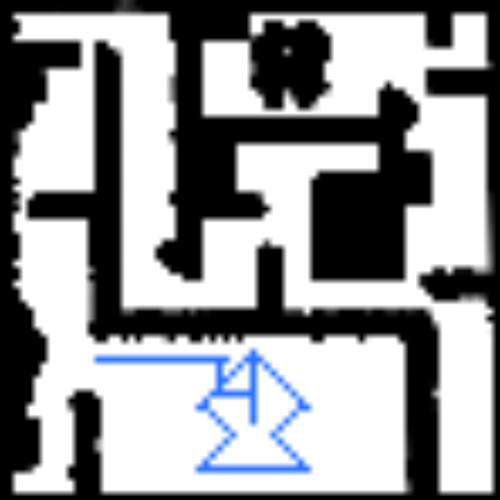
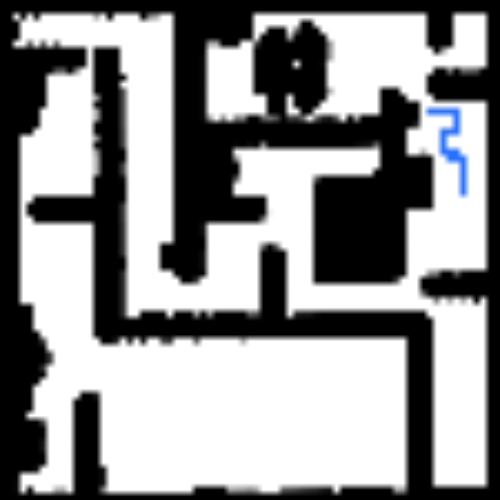
porfa que este bien

diff --git a/src/webui.js b/src/webui.js
@@ -177,22 +177,12 @@ window.onload = function () {
     // ----------------------------    
 
     subscriptorMovimiento.subscribe(function(message){
-        //console.log('Info del mensaje ruedas: \n', message.data);
 
         derecha = message.data[1].toFixed(2)
         izquierda = message.data[0].toFixed(2)
 
-        //console.log('derecha: \n', derecha);
-        //console.log('izquierda: \n', izquierda);
-        rojo = derecha
-        verde = izquierda
-
         document.getElementById("rueda_derecha").innerHTML=String(derecha);
         document.getElementById("rueda_izquierda").innerHTML=String(izquierda);
-
-        document.getElementById("rojo").innerHTML=String(derecha);
-        document.getElementById("verde").innerHTML=String(izquierda);
-
         
     })
 
@@ -214,7 +204,8 @@ window.onload = function () {
             slide = "slide_up"
         }
 
-        document.getElementById("orientacion").innerHTML=String((orientacion*180/3.14).toFixed(2));   
+        document.getElementById("orientacion").innerHTML=String((orientacion*180/3.14).toFixed(2));
+        document.getElementById("posicion").innerHTML = `[ ${message.linear.x.toFixed(2)} m , ${message.linear.y.toFixed(2)} m ]`; 
     })
 
     subscriptorColores.subscribe(function(message){

diff --git a/src/index.html b/src/index.html
@@ -108,7 +108,8 @@
                 </div>
                 </div>
                 <div class="card-footer text-muted">
-                    orientacion:  <a id="orientacion"></a> grados
+                    orientacion:  <a id="orientacion"></a> grados <br>
+                    posicion:  <a id="posicion"></a>
                 </div>
             </div>
         </div>    

diff --git a/scripts/dibujo_server.py b/scripts/dibujo_server.py
@@ -19,10 +19,43 @@ class Ruta:
 
     def jirafa(self, derecha, izquierda, up, down, nodo):
         if (derecha + izquierda) > (up + down):  # Es ancho el espacio de dibujo
-            pass
+            for i in range (up - 5):
+                nodo = self.dar_nodo_direccion('N',nodo)
+                nodo = self.dar_nodo_direccion('E',nodo)# Diagonal derecha por lomo
+                self.ruta.append(nodo)
+            for i in range (up - 6):
+                nodo = self.dar_nodo_direccion('N',nodo)# Arriba por la cola
+                self.ruta.append(nodo)
+            for i in range (up - 4):
+                nodo = self.dar_nodo_direccion('E',nodo)# Recto a la derecha hasta la pata
+                self.ruta.append(nodo)
+            for i in range (up - 4):
+                nodo = self.dar_nodo_direccion('S',nodo)
+                nodo = self.dar_nodo_direccion('W',nodo)# Diagonal izquierda para pata 1
+                self.ruta.append(nodo)
+            for i in range (up - 5):
+                nodo = self.dar_nodo_direccion('S',nodo)
+                nodo = self.dar_nodo_direccion('E',nodo)# Izquierda hasta l legar a la pata
+                self.ruta.append(nodo)
+            for i in range ((up - 1) * 2):
+                nodo = self.dar_nodo_direccion('W',nodo)# Izquiera por el cuello hasta la cabeza
+                self.ruta.append(nodo)
+            for i in range (up - 5):
+                nodo = self.dar_nodo_direccion('S',nodo)# Abajo por la boca
+                self.ruta.append(nodo)
+            for i in range (up - 5):
+                nodo = self.dar_nodo_direccion('N',nodo)
+                nodo = self.dar_nodo_direccion('W',nodo)# Diagonal izquierda arriba hasta la cabeza
+                self.ruta.append(nodo)
+            for i in range (up - 6):
+                nodo = self.dar_nodo_direccion('N',nodo)
+                nodo = self.dar_nodo_direccion('E',nodo)# Diagonal arriba derecha hasta cuello
+                self.ruta.append(nodo)
+            for i in range (up - 1):
+                nodo = self.dar_nodo_direccion('E',nodo)# Derecha hasta finalizar
+                self.ruta.append(nodo)
         else:  # es mas largo que ancho
             pass
-        # TODO pintar jirafa.
 
     def gato(self, derecha, izquierda, up, down, nodo):
         if (derecha + izquierda) > (up + down):  # Es ancho el espacio de dibujo
@@ -32,11 +65,68 @@ class Ruta:
         # TODO pintar jirafa.
 
     def pato(self, derecha, izquierda, up, down, nodo):
+        """
+        Dibuja un pato
+        """
+        print('PATO')
         if (derecha + izquierda) > (up + down):  # Es ancho el espacio de dibujo
-            pass
+            for i in range(up - 4):
+                nodo = self.dar_nodo_direccion('N', nodo)  # Se mueve del centro para arriba
+                self.ruta.append(nodo)
+            for i in range(up - 7):
+                nodo = self.dar_nodo_direccion('N', nodo)
+                nodo = self.dar_nodo_direccion('E', nodo)  # Se mueve diagonal arriba a la punta de la cabeza
+                self.ruta.append(nodo)
+            for i in range(up - 5):
+                nodo = self.dar_nodo_direccion('S', nodo)
+                nodo = self.dar_nodo_direccion('E',
+                                               nodo)  # Se mueve diagonal abajo a la derecha hasta la punta del pico
+                self.ruta.append(nodo)
+            for i in range(up - 6):
+                nodo = self.dar_nodo_direccion('W', nodo)  # Se mueve a la izquierda hasa el cuello
+                self.ruta.append(nodo)
+            for i in range(up - 8):
+                nodo = self.dar_nodo_direccion('S', nodo)
+                nodo = self.dar_nodo_direccion('E', nodo)  # Diagonal derecha abajo para pecho
+                self.ruta.append(nodo)
+            for i in range(up - 6):
+                nodo = self.dar_nodo_direccion('S', nodo)  # Recto hacia abajo para pecho
+                self.ruta.append(nodo)
+            for i in range(up - 7):
+                nodo = self.dar_nodo_direccion('S', nodo)
+                nodo = self.dar_nodo_direccion('W', nodo)  # Diagonal izquierda para pecho
+                self.ruta.append(nodo)
+            for i in range(up - 6):
+                nodo = self.dar_nodo_direccion('W', nodo)  # Izquierda hasta llegar a la pata
+                self.ruta.append(nodo)
+            for i in range(up - 7):
+                nodo = self.dar_nodo_direccion('S', nodo)
+                nodo = self.dar_nodo_direccion('E', nodo)  # Diagonal abajo derecha hasta casi el piso
+                self.ruta.append(nodo)
+            for i in range(up - 5):
+                nodo = self.dar_nodo_direccion('W', nodo)  # Izquierda en la pata
+                self.ruta.append(nodo)
+            for i in range(up - 7):
+                nodo = self.dar_nodo_direccion('N', nodo)
+                nodo = self.dar_nodo_direccion('E', nodo)  # Diagonal derecha arriba para la pata
+                self.ruta.append(nodo)
+            for i in range(up - 5):
+                nodo = self.dar_nodo_direccion('W',
+                                               nodo)  # Izquierda hasta llegar a la parte inferior izquierda del pato.
+                self.ruta.append(nodo)
+            for i in range(up - 8):
+                nodo = self.dar_nodo_direccion('N', nodo)
+                nodo = self.dar_nodo_direccion('E', nodo)  # Diagonal arriba derecha
+                self.ruta.append(nodo)
+            for i in range(up - 5):
+                nodo = self.dar_nodo_direccion('N', nodo)
+                nodo = self.dar_nodo_direccion('W', nodo)  # Diagonal izquierda arriba hasta la cola
+                self.ruta.append(nodo)
+            for i in range(up - 1):
+                nodo = self.dar_nodo_direccion('E', nodo)  # Derecha todo el lomo
+                self.ruta.append(nodo)
         else:  # es mas largo que ancho
             pass
-        # TODO pintar jirafa.
 
     def pez(self, derecha, izquierda, up, down, nodo):
         """
@@ -234,8 +324,8 @@ class Ruta:
             anterior = nodo
         x.append(self.inicio[0] * relacionX - 7.5)
         y.append(self.inicio[1] * relacionY - 7.5)
-        x.reverse()
-        y.reverse()
+        print(x)
+        print(y)
         return x, y
 
     def dar_nodo_direccion(self, direccion, nodo):

diff --git a/scripts/traccion.py b/scripts/traccion.py
@@ -174,11 +174,17 @@ def traccion_OP():
                     while (alpha > 0.05 or alpha < - 0.05) and not rospy.is_shutdown():
                         error = [xf - x, yf - y]
                         angulo = np.arctan2(error[1], error[0])
-                        if angulo > 2.5 or angulo < -2.5:
-                            alpha = abs(angulo) * np.sign(theta) - theta
+                        # if angulo > 2.5 or angulo < -2.5:
+                            # alpha = abs(angulo) * np.sign(theta) - theta
+                        if angulo > 2.8 or angulo < -2.8:
+                            b = np.pi - abs(angulo)
+                            b = b * np.sign(angulo)
+                            c = np.pi - abs(theta)
+                            c = c * np.sign(theta)
+                            alpha = c-b
                         else:
                             alpha = angulo - theta
-                        print(alpha, angulo, theta)
+                        # print(alpha, angulo, theta)
                         girar(alpha)
                         rate.sleep()
 
@@ -191,19 +197,17 @@ def traccion_OP():
                     while (rho > 0.04) and not rospy.is_shutdown():
                         error = [xf - x, yf - y]
                         angulo = np.arctan2(error[1], error[0])
-                        if angulo > 2.8 or angulo < -2.8:
-                            """
-                            if angulo < 3.1:
-                                angulo = 3.1
-                            if angulo < -3.1:
-                                angulo = -3.1
-                            alpha = abs(angulo) * np.sign(theta) - theta
-                            """
-                            angulo = np.arctan2(-error[0], error[1])
-                            theta = theta + 90 # TODO falta probar esto
-                        alpha = angulo - theta
                         rho = np.sqrt(np.power(error[0], 2) + np.power(error[1], 2))
-                        print(rho, alpha, theta)
+                        if angulo > 2.8 or angulo < -2.8:
+                            b = np.pi - abs(angulo)
+                            b = b * np.sign(angulo)
+                            c = np.pi - abs(theta)
+                            c = c * np.sign(theta)
+                            alpha = c-b
+                        else:
+                            alpha = angulo - theta
+
+                        print(rho, angulo, theta, alpha, b, c)
                         adelantar(rho, alpha)
                         rate.sleep()
 
@@ -212,11 +216,13 @@ def traccion_OP():
             hayRuta = False
 
             if dibujo:
+                print('----------DIBUJO----------')
                 figura = 'pez'
                 hacer_dibujo([x, y], figura)
                 dibujo = False
 
             if pintar:
+                print('----------A PINTAR----------')
                 solicitarRuta([x, y], pintar)
                 pintar = False
                 dibujo = True

diff --git a/scripts/prueba_client.py b/scripts/prueba_client.py
@@ -23,7 +23,7 @@ def main():
 
     dibujo = rospy.ServiceProxy('dibujo', Dibujo)
 
-    figura = "pez" # poner figura que van a dibujar
+    figura = "jirafa" # poner figura que van a dibujar
 
     inicio = [3.366, -4.5]
     resp = dibujo(figura, inicio)
